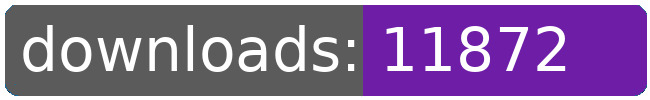
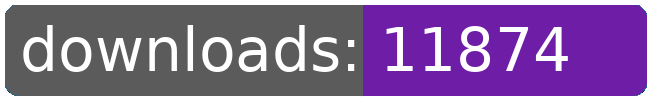
dl log written

Changed region(s): [[0.8, 0.24, 0.8923, 0.72]]

diff --git a/README.md b/README.md
@@ -21,8 +21,8 @@
 		<td>841</td>
 		<td>899</td>
 		<td>932</td>
-		<td>962</td>
-		<td>+ 30</td>
+		<td>963</td>
+		<td>+ 31</td>
 	</tr>
 	<tr>
 		<td>aberrant.kahet.outfitter</td>
@@ -43,8 +43,8 @@
 		<td>787</td>
 		<td>847</td>
 		<td>886</td>
-		<td>915</td>
-		<td>+ 29</td>
+		<td>916</td>
+		<td>+ 30</td>
 	</tr>
 	<tr>
 		<td>capture.archons</td>
@@ -186,8 +186,8 @@
 		<td></td>
 		<td></td>
 		<td></td>
-		<td>11872</td>
-		<td>380</td>
+		<td>11874</td>
+		<td>382</td>
 	</tr>
 </table>
 </sub></sup>
@@ -245,8 +245,8 @@
 		<td>841</td>
 		<td>899</td>
 		<td>932</td>
-		<td>962</td>
-		<td>+ 30</td>
+		<td>963</td>
+		<td>+ 31</td>
 	</tr>
 	<tr>
 		<td>purchase.bactrian</td>
@@ -278,8 +278,8 @@
 		<td>787</td>
 		<td>847</td>
 		<td>886</td>
-		<td>915</td>
-		<td>+ 29</td>
+		<td>916</td>
+		<td>+ 30</td>
 	</tr>
 	<tr>
 		<td>aberrant.kahet.outfitter</td>
@@ -377,8 +377,8 @@
 		<td></td>
 		<td></td>
 		<td></td>
-		<td>11872</td>
-		<td>380</td>
+		<td>11874</td>
+		<td>382</td>
 	</tr>
 </table>
 </sub></sup>
@@ -406,7 +406,7 @@
 		<td>24</td>
 		<td>92</td>
 		<td>52</td>
-		<td>19</td>
+		<td>20</td>
 	</tr>
 	<tr>
 		<td>unique visitors</td>
@@ -418,7 +418,7 @@
 		<td>8</td>
 		<td>10</td>
 		<td>8</td>
-		<td>8</td>
+		<td>9</td>
 	</tr>
 </table>
 <br>
@@ -432,8 +432,8 @@
 	</tr>
 	<tr>
 		<td>2025-10-15</td>
-		<td>1875</td>
-		<td>334</td>
+		<td>1876</td>
+		<td>335</td>
 		<td>192</td>
 		<td>21</td>
 	</tr>
@@ -446,8 +446,8 @@
 	</tr>
 	<tr>
 		<td>36</td>
-		<td>52.08</td>
-		<td>9.28</td>
+		<td>52.11</td>
+		<td>9.31</td>
 		<td></td>
 		<td></td>
 	</tr>
